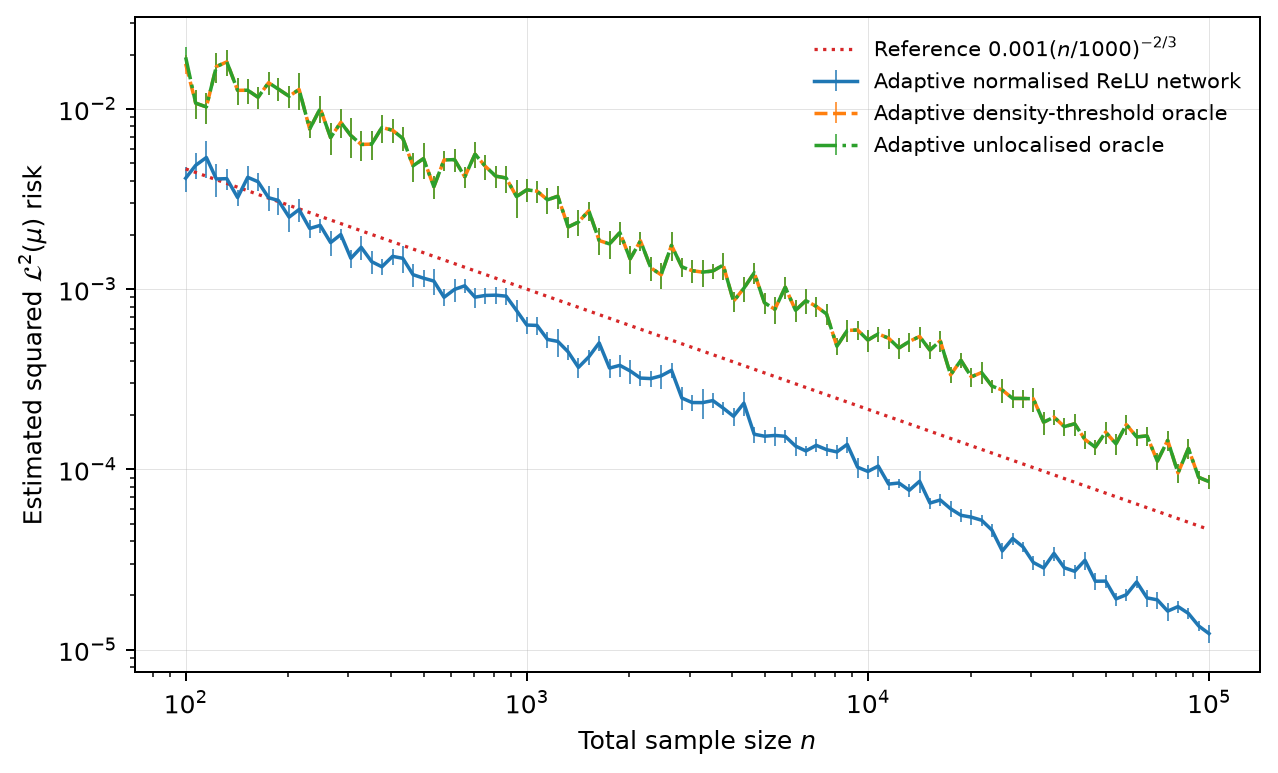
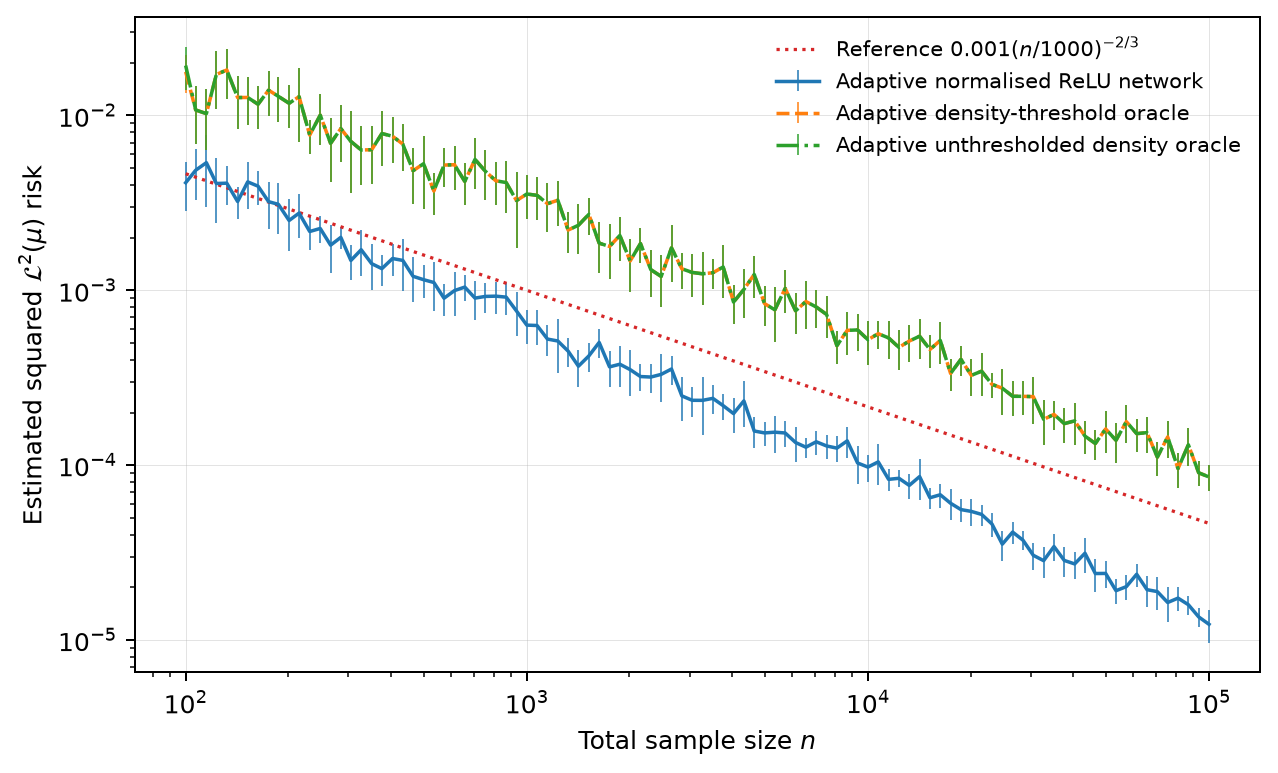
Synchronize figure error bars and documentation with manuscript

diff --git a/adaptive_regression.py b/adaptive_regression.py
@@ -406,11 +406,11 @@ def plot(output_dir: Path, figure_dir: Path) -> None:
     fig,ax=plt.subplots(figsize=(7.2,4.4))
     labels={'net':'Adaptive normalised ReLU network',
             'thr':'Adaptive density-threshold oracle',
-            'ul':'Adaptive unlocalised oracle'}
+            'ul':'Adaptive unthresholded density oracle'}
     for key,style in zip(('net','thr','ul'),('-','--','-.')):
         mean=np.array([float(r[key+'_mean']) for r in rows])
         se=np.array([float(r[key+'_se']) for r in rows])
-        ax.errorbar(ns,mean,yerr=se,label=labels[key],linestyle=style,
+        ax.errorbar(ns,mean,yerr=1.96*se,label=labels[key],linestyle=style,
                     linewidth=1.4,elinewidth=.6,capsize=0)
     ref=.001*(ns/1000.)**(-2/3)
     ax.plot(ns,ref,':',linewidth=1.3,label=r'Reference $0.001(n/1000)^{-2/3}$')

diff --git a/README.md b/README.md
@@ -52,7 +52,8 @@ Recreate the figure from the stored summaries:
 
 The figure appears in `results/`. Its dotted reference line is
 `0.001 * (n/1000)^(-2/3)`. The line's vertical placement is illustrative.
-Error bars show one Monte Carlo standard error across the 20 replications.
+Error bars extend 1.96 Monte Carlo standard errors on each side of the mean
+across the 20 replications, computed on the original risk scale.
 
 Rerun the complete experiment in a separate directory:
 
@@ -98,7 +99,7 @@ At `n = 100000`, the supplied mean risks and Monte Carlo standard errors are:
 | --- | ---: | ---: |
 | Normalised ReLU estimator | 1.23e-05 | 1.35e-06 |
 | Density-threshold oracle | 8.55e-05 | 7.18e-06 |
-| Unlocalised oracle | 8.55e-05 | 7.18e-06 |
+| Unthresholded density oracle | 8.55e-05 | 7.18e-06 |
 
 ## Contact
 
